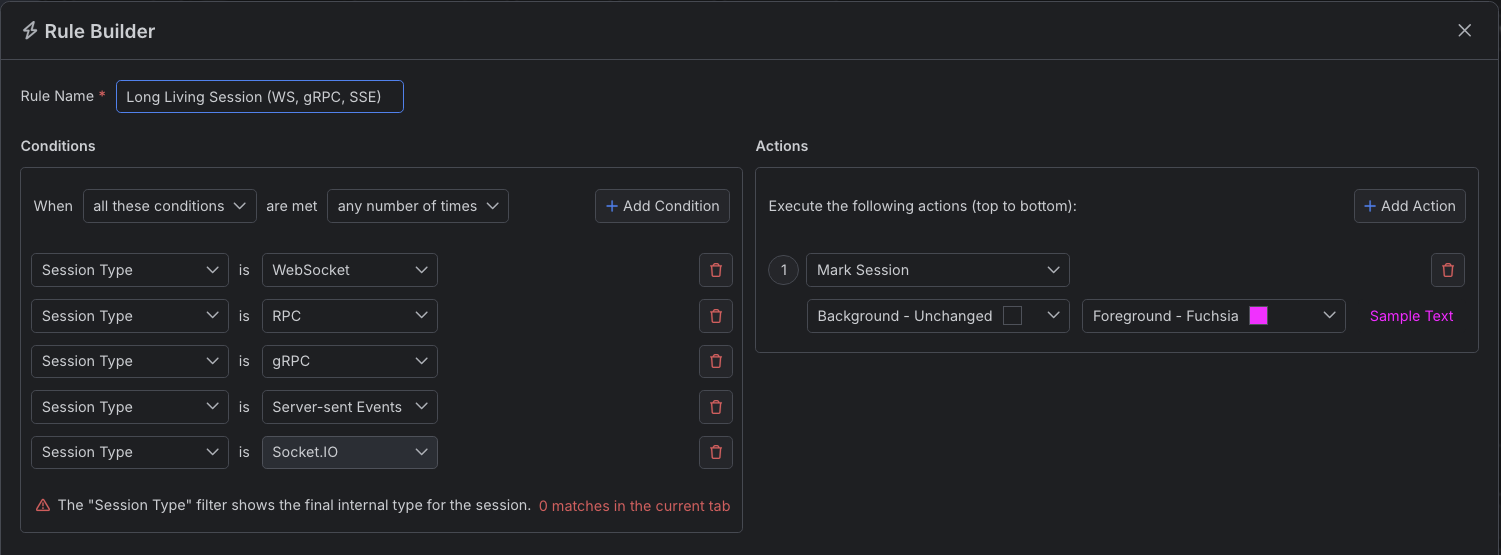
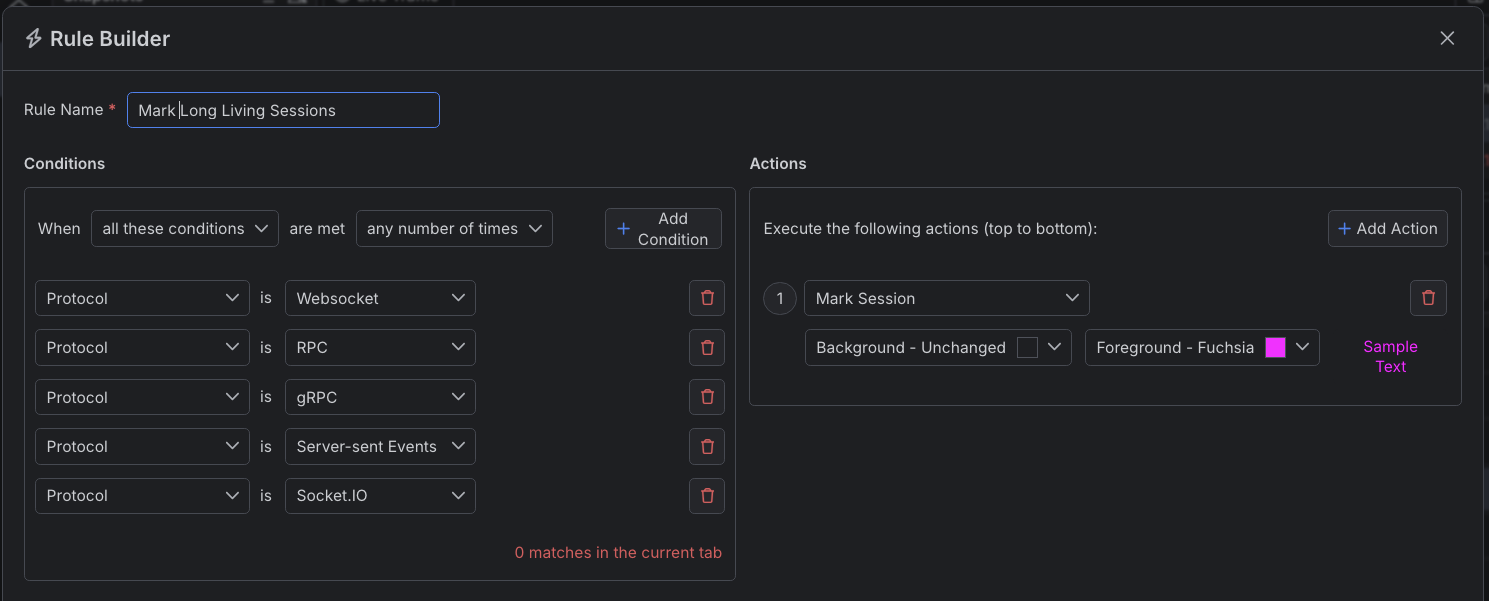
update content

diff --git a/rules-presets/ui-modifications/mark-long-living-sessions.md b/rules-presets/ui-modifications/mark-long-living-sessions.md
@@ -15,15 +15,13 @@ Create a "Mark Long-Living Sessions" rule by setting the following actions throu
 
 1. Create a matching condition that uses the "When **all these conditions** are met **any number of times**" pattern. 
 
-1. Match by a **Session Type** that uses string values that match the desired session types. For example: **WebSocket**, **gRPC**, **RPC**, **Socket.IO**, and **Server-Side Events** sessions.
+1. Match by a **Protocol** that uses string values that match the desired session types. For example: **WebSocket**, **gRPC**, **RPC**, **Socket.IO**, and **Server-Side Events** sessions.
 
 1. Create a **Mark Session** action and set the preferred background and foreground (text) colors.
 
 ![Creating "Mark Long-Living Sessions" rule](../../images/advanced/mark-long-living-sessions.png)
 
 Once the rule is created, enable the **Rules** tab, toggle the rule switch, and start capturing traffic.
-
-![Activating the "Mark Long-Living Sessions" rule](../../images/advanced/mark-long-living-sessions-active.png)
 
 >tip You can create the rule and then use the **Play** button to immediately apply the new UI effect to all captured sessions in the **Live Traffic** grid.
 

diff --git a/collaboration/saving-data.md b/collaboration/saving-data.md
@@ -24,6 +24,8 @@ The save options in Fiddler Everywhere allow you to use local and cloud save, or
  - Numbers (0-9).
  - Dashes (`-`), underscores (`_`), and blank spaces.
 
+ >tip Note that saving a session's snapshots in Fiddler will effectively store the snapshots in the local storage (when using local save) or in the Fiddler's cloud space (when using cloud save). If you need to work with a session file, you should use [the **Export** option]({%slug fiddler-export-and-import%}) which enables you to produce a file in various known formats (like SAZ, HTTPArchive, etc.).
+
 
 ## Saving Session's Snapshots
 
